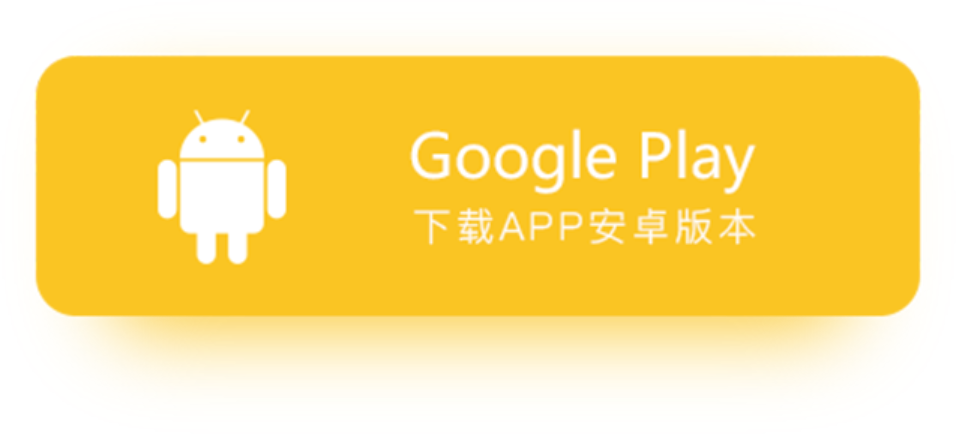
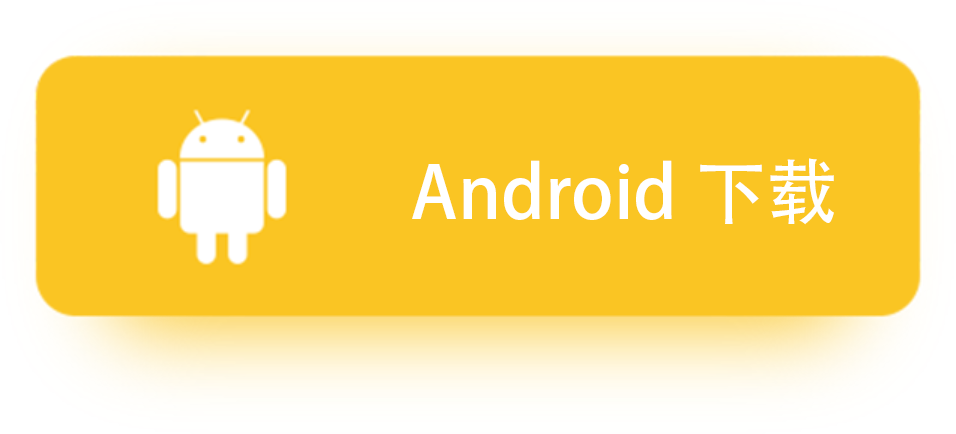
1
1

Changed region(s): [[0.4247, 0.2995, 0.8797, 0.5691]]

diff --git a/pages/index/index.vue b/pages/index/index.vue
@@ -1,5 +1,6 @@
 <template>
 	<view :class="phone?'phone':'destop'">
+		<view style="position: fixed;top:0;left:0;right:0;bottom:0;background-color: #fff;z-index:999999;" v-if="isWX">暂不支持微信访问，请点击右上角按钮，从外部浏览器打开</view>
 		<block  v-if="!phone">
 		<view class="content" :style="{width:w+'px',height:h+'px',transform:'scale3d('+s+','+s+',1)'}">
 			<view class="head">
@@ -279,9 +280,9 @@
 										<view class="text">高速下载通道下载请点击</view>
 										<view class="buttonFrame">
 											<view class="button" style="background-color: #EC5298;" @click="downloadAOS">
-												<image class="icon" src="/static/ANZHUO@2x.png"></image><view class="text">安卓 GOOGLE PLAY</view>
+												<image class="icon" src="/static/ANZHUO@2x.png"></image><view class="text">Android下载</view>
 											</view>
-											<view class="button" style="background-color: #FBB03B;" @click="download"><image class="icon" src="/static/IOS@2x.png"></image><view class="text">苹果 APP STORE</view></view>
+											<view class="button" style="background-color: #FBB03B;" @click="download"><image class="icon" src="/static/IOS@2x.png"></image><view class="text">iPhone下载</view></view>
 										</view>
 									</view>
 									<view :class="{frameL:1,frame7:1,canShow:canShowPhone(8818)} ">
@@ -325,13 +326,11 @@
 	export default {
 		mixins: [allPage],
 		components:{},
+		onLoad(){
+			 
+		},
 		onShow: function() {
-			let ua = window.navigator.userAgent.toLowerCase();
-			        if(ua.match(/micromessenger/i) == 'micromessenger'){  
-			           this.isWechart = true
-			        }else{  
-			           this.isWechart = false
-			        }  
+			
 		},
 		data() {
 			return {
@@ -365,7 +364,7 @@
 					})
 					return
 				}
-				window.location.href='itms-services://?action=download-manifest&amp;url=https://www.paradisebee.com/static/mifengtiantang.plist';
+				window.location.href='https://apps.apple.com/cn/app/%E8%9C%9C%E8%9C%82%E5%A4%A9%E5%A0%82/id1492021582';
 			},
 			scrollPhone(e){
 				this.scrollTopNow = e.target.scrollTop/this.rpx
@@ -421,6 +420,9 @@
 			}
 		},
 		computed:{
+			isWX(){
+				return this.$store.state.rootST.isWX
+			},
 			phone:function(){
 				let res = uni.getSystemInfoSync();
 				console.log(res)

diff --git a/pages/regest/regest.vue b/pages/regest/regest.vue
@@ -1,5 +1,6 @@
 <template>
 	<view class="page">
+		<view style="position: fixed;top:0;left:0;right:0;bottom:0;background-color: #fff;z-index:999999;" v-if="isWX">暂不支持微信访问，请点击右上角按钮，从外部浏览器打开</view>
 		<image class="bg" src="/static/shareBG.png"></image>
 		<view class="regestFrame">
 			<view class="title">手机注册</view>
@@ -12,7 +13,7 @@
 					<input placeholder="请输入邮箱" v-model="email"/>
 				</view> -->
 				<view class="inputPoint">
-					<input placeholder="请输入6-16位密码" v-model="password" :password="!showPassword"/>
+					<input placeholder="请输入5~10位大小写英文或数字" v-model="password" :password="!showPassword"/>
 					<image class="icon" src="/static/regestIcon1.png" v-if="showPassword" @click="togglePassword"></image>
 					<image class="icon" src="/static/regestIcon0.png" v-else @click="togglePassword"></image>
 				</view>
@@ -44,6 +45,11 @@
 				nextTime:0,
 				showPassword:false
 			};
+		},
+		computed:{
+			isWX(){
+				return this.$store.state.rootST.isWX
+			}
 		},
 		onLoad(props){
 			this.id = props.id||''
@@ -98,9 +104,15 @@
 						icon:'none'
 					})
 					return false;
-				}else if(this.password.length < 6 || this.password.length>16){
+				}else if(this.password.length < 5 || this.password.length>10){
 					uni.showToast({
-						title:'密码须6-16位',
+						title:'密码须5-10位大小写字母或数字',
+						icon:'none'
+					})
+					return false;
+				}else if(!(/^[a-zA-Z\d]+$/.test(this.password))){
+					uni.showToast({
+						title:'密码须5-10位大小写字母或数字',
 						icon:'none'
 					})
 					return false;

diff --git a/pages/download/download.vue b/pages/download/download.vue
@@ -1,5 +1,6 @@
 <template>
 	<view class="page">
+		<view style="position: fixed;top:0;left:0;right:0;bottom:0;background-color: #fff;z-index:999999;" v-if="isWX">暂不支持微信访问，请点击右上角按钮，从外部浏览器打开</view>
 		<image class="bg" src="/static/shareBG.png"></image>
 		<view class="regestFrame">
 			<view class="title">- 注册成功 -</view>
@@ -17,34 +18,20 @@
 			};
 		},
 		onShow(){
-			let ua = window.navigator.userAgent.toLowerCase();  
-			        if(ua.match(/micromessenger/i) == 'micromessenger'){  
-			           this.isWechart = true
-			        }else{  
-			           this.isWechart = false
-			        }  
+
 		},
 		methods:{
 			downloadAOS(){
-				if(this.isWechart){
-					uni.showToast({
-						title:"请点击右上角按钮，在浏览器中打开",
-						icon:'none'
-					})
-					return
-				}
 				window.location.href='https://www.paradisebee.com/mifengtiantang.apk';
 			},
 			downloadIOS(){
-				if(this.isWechart){
-					uni.showToast({
-						title:"请点击右上角按钮，在浏览器中打开",
-						icon:'none'
-					})
-					return
-				}
-				window.location.href='itms-services://?action=download-manifest&amp;url=https://www.paradisebee.com/static/mifengtiantang.plist';
+				window.location.href='https://apps.apple.com/cn/app/%E8%9C%9C%E8%9C%82%E5%A4%A9%E5%A0%82/id1492021582';
 			}
+		},
+		computed:{
+			isWX(){
+				return this.$store.state.rootST.isWX
+			},
 		}
 	}
 </script>

diff --git a/App.vue b/App.vue
@@ -2,6 +2,14 @@
 	import {postFetch,setToken} from "@/util/request_UT.js"
     export default {
         onLaunch: function() {
+			let _this=this
+			let ua = window.navigator.userAgent.toLowerCase();
+			        if(ua.match(/micromessenger/i) == 'micromessenger'){  
+						_this.dispatch('rootST/wx')
+			           // uni.redirectTo({
+			           // 	url: '/pages/out/out'
+			           // });
+			        }
 			if(this.$store.state.rootST.access_token){
 				setToken({
 					access_expired:this.$store.state.rootST.access_expired,

diff --git a/store/root_ST.js b/store/root_ST.js
@@ -5,6 +5,7 @@ export default {
   state: {
 	  initReady:false,
 	  destop:false,
+	  isWX:false
   },
   mutations: {
 	  clear(state, data){
@@ -16,6 +17,9 @@ export default {
 	  },
 	  destop(state, data){
 		  state.destop = true;
+	  },
+	  wx(state, data){
+		  state.isWX = true;
 	  }
   },
   actions:{
@@ -27,6 +31,9 @@ export default {
 	  },
 	  destop(context,data){
 		  context.commit("destop");
+	  },
+	  wx(context,data){
+		  context.commit("wx");
 	  }
   }
  }

diff --git a/pages/policy/policy.vue b/pages/policy/policy.vue
@@ -1,5 +1,6 @@
 <template>
 	<view class="frame">
+		<view style="position: fixed;top:0;left:0;right:0;bottom:0;background-color: #fff;z-index:999999;" v-if="isWX">暂不支持微信访问，请点击右上角按钮，从外部浏览器打开</view>
 		<view class="p">隐私权政策</view>
 		
 		 
@@ -352,6 +353,11 @@
 			return {
 				
 			};
+		},
+		computed:{
+			isWX(){
+				return this.$store.state.rootST.isWX
+			},
 		}
 	}
 </script>

diff --git a/pages/agreement/agreement.vue b/pages/agreement/agreement.vue
@@ -1,5 +1,6 @@
 <template>
 	<view class="frame">
+		<view style="position: fixed;top:0;left:0;right:0;bottom:0;background-color: #fff;z-index:999999;" v-if="isWX">暂不支持微信访问，请点击右上角按钮，从外部浏览器打开</view>
 		<view class="p">用户协议</view>
 		
 		
@@ -161,6 +162,11 @@
 			return {
 				
 			};
+		},
+		computed:{
+			isWX(){
+				return this.$store.state.rootST.isWX
+			},
 		}
 	}
 </script>

diff --git a/pages/out/out.vue b/pages/out/out.vue
@@ -1,0 +1,23 @@
+<template>
+	<view class="page">
+		暂不支持微信访问，请点击右上角按钮，从外部浏览器打开
+	</view>
+</template>
+
+<script>
+	export default {
+		data() {
+			return {
+				
+			};
+		}
+	}
+</script>
+
+<style lang="scss">
+	.page{
+		width: 100%;
+		padding: 200rpx 100rpx;
+		line-height: 2;
+	}
+</style>
